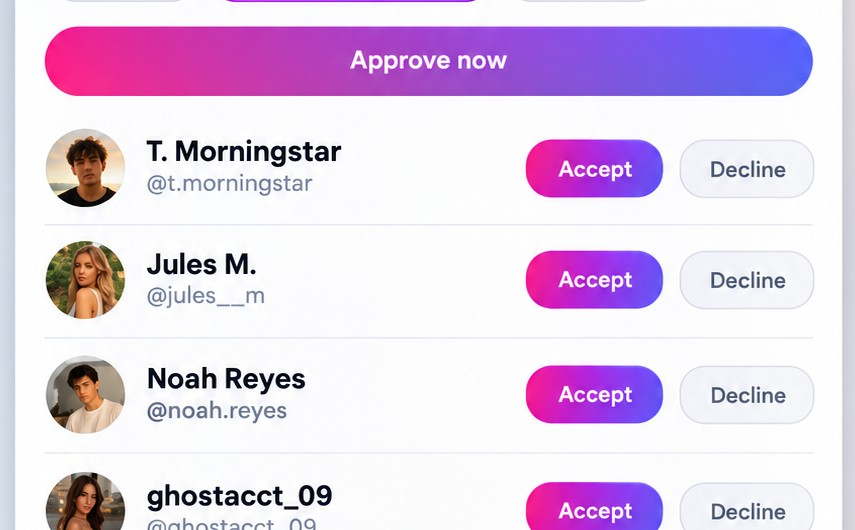
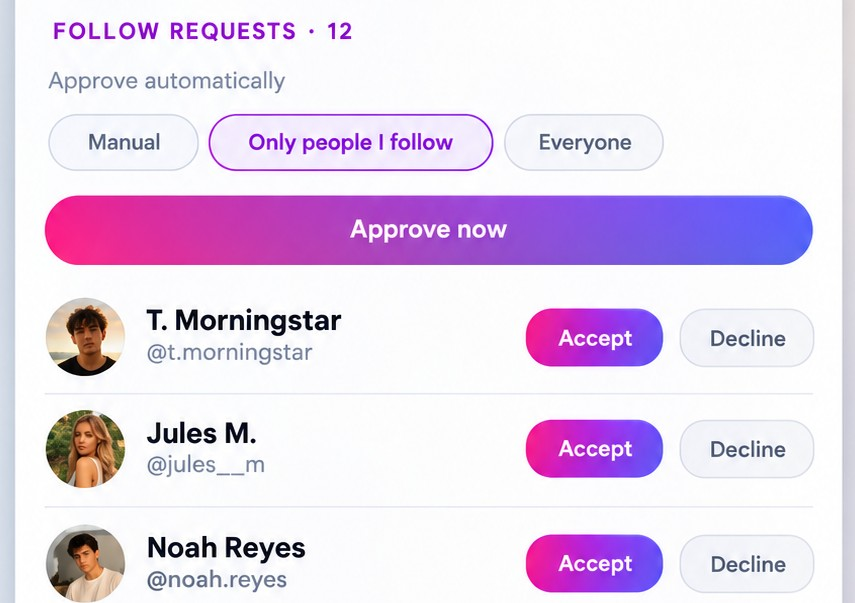
Captura de solicitudes: entra la cabecera y los botones de aprobar
El recorte empezaba en el boton 'Approve now'. Subido de 44% a 32,5%
de altura, ahora entran tambien 'FOLLOW REQUESTS' y los tres modos de
aprobacion automatica, que son los que explican la funcion.

diff --git a/Ghosted-Landing/index.html b/Ghosted-Landing/index.html
@@ -78,7 +78,7 @@
   <!-- Self-hosted (GDPR: no visitor IP ever reaches Google Fonts or a CDN — cf. LG München I, 3 O 17493/20) -->
   <link rel="stylesheet" href="assets/fonts/inter.css?v=1">
   <link rel="stylesheet" href="assets/flags/flag-icons.min.css?v=1">
-  <link rel="stylesheet" href="styles.css?v=89">
+  <link rel="stylesheet" href="styles.css?v=90">
 </head>
 <body id="top">
   <div class="grain" aria-hidden="true"></div>
@@ -210,7 +210,7 @@
 
       <div class="fb-row2">
         <div class="fb-tile-flat fb-tile-shot"><div><h3 data-i18n="fx_ghost_t">Ghost mode</h3><p data-i18n="fx_ghost_d">Opens stories without registering a view. Depends on Instagram.</p></div><div class="fb-shot"><img src="assets/shots/stories.jpg?v=1" alt="Ghoosted panel showing the stories tab" width="1028" height="1530" loading="lazy" decoding="async"></div></div>
-        <div class="fb-tile-flat fb-tile-shot"><div><h3 data-i18n="fx_requests_t">Follow requests, handled</h3><p data-i18n="fx_requests_d">One by one, or automatically for people you already follow. Never declines anyone.</p></div><div class="fb-shot"><img src="assets/shots/requests.jpg?v=2" alt="Ghoosted panel showing follow requests" width="1068" height="1472" loading="lazy" decoding="async"></div></div>
+        <div class="fb-tile-flat fb-tile-shot"><div><h3 data-i18n="fx_requests_t">Follow requests, handled</h3><p data-i18n="fx_requests_d">One by one, or automatically for people you already follow. Never declines anyone.</p></div><div class="fb-shot"><img src="assets/shots/requests.jpg?v=3" alt="Ghoosted panel showing follow requests" width="1068" height="1472" loading="lazy" decoding="async"></div></div>
         
       </div>
 

diff --git a/Ghosted-Landing/styles.css b/Ghosted-Landing/styles.css
@@ -351,7 +351,7 @@ img,svg{display:block;max-width:100%}
      Solicitudes va recortada al boton y dos filas: el panel completo no
      aporta nada aqui y el detalle se lee mejor. */
   .fb-tile-shot .fb-shot{aspect-ratio:16/10}
-  .fb-tile-shot:last-child .fb-shot{aspect-ratio:855/530}
+  .fb-tile-shot:last-child .fb-shot{aspect-ratio:900/604}
 }
 .fb-tile-flat h3{font-family:var(--display);font-size:21px;font-weight:500;letter-spacing:-.03em;color:var(--ink);margin:0 0 6px}
 .fb-tile-flat p{font-size:14px;line-height:1.5;color:var(--ink-2);margin:0}
